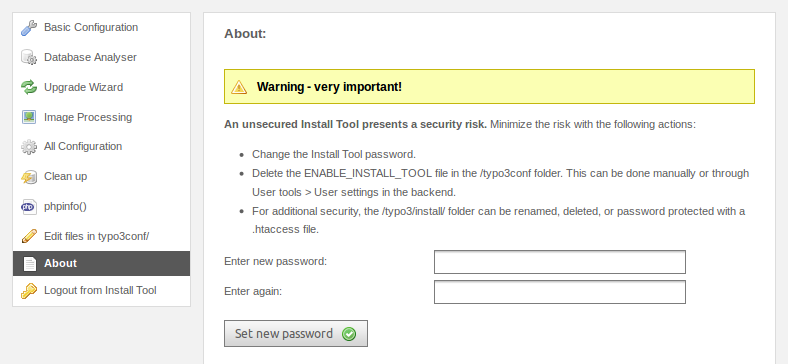
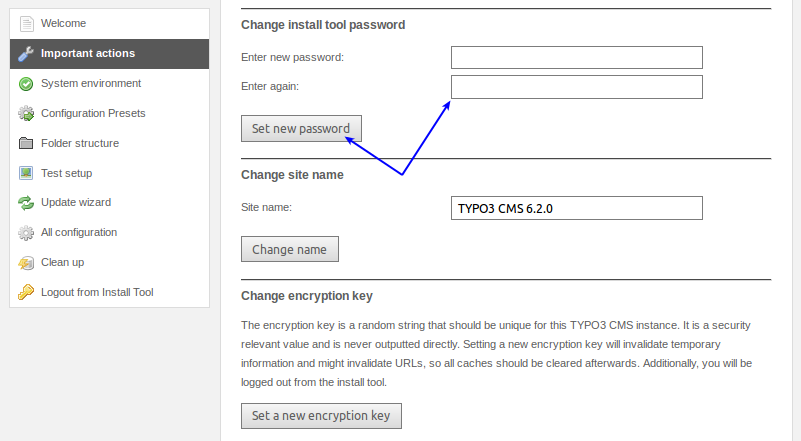
[TASK] Salted passwords for BE user and Install Tool
This patch updates the documentation and mentions the use of salted MD5
hashes as the Install Tool password since TYPO3 CMS 6.2 and where to find
it (file LocalConfiguration.php). This applies to chapter "Guidelines for
TYPO3 Integrators -> Install Tool".

It also replaces the related screenshot, which shows the new Install Tool
of TYPO3 CMS 6.2.x now.

Resolves: #53026

diff --git a/Documentation/GuidelinesIntegrators/InstallTool/Index.rst b/Documentation/GuidelinesIntegrators/InstallTool/Index.rst
@@ -43,23 +43,39 @@ older than 60 minutes (expiry time). Both features can be deactivated
 if the content of this file is "KEEP\_FILE", which is understandably
 not recommended.
 
-The password for accessing the Install Tool is stored as a MD5 hash in
-the global configuration file "typo3conf/LocalConfiguration.php"::
+The password for accessing the Install Tool is stored as a salted MD5
+hash in the global configuration file "typo3conf/LocalConfiguration.php"::
+
+   'BE' => 'installToolPassword' = '$P$CnawBtpk.D22VwoB2RsN0jCocLuQFp.'
+
+In TYPO3 versions before 6.2, this value is a standard (unsalted) MD5
+hash::
 
    'BE' => 'installToolPassword' = 'bacb98acf97e0b6112b1d1b650b84971'
 
-Respectively in the file "typo3conf/localconf.php" in TYPO3 versions
-prior 6.0::
+During an update from TYPO3 version 6.0 or 6.1 to 6.2, the standard
+MD5 hash is automatically converted into a salted hash.
+
+In TYPO3 versions prior 6.0, the MD5 hash of the Install Tool password
+is stored in the file "typo3conf/localconf.php" ::
 
    $TYPO3_CONF_VARS['BE']['installToolPassword'] = "bacb98acf97e0b6112b1d1b650b84971";
 
-The first thing you should do after taking over a new TYPO3 system
-from a system administrator, is to change this password from the
-default value ("joh316") to a new and secure one. Log-in to the
-Install Tool and change it there.
+Since TYPO3 version 6.2, the Install Tool password is set during the
+installation process. This means, in the case that a system administrator
+hands over the TYPO3 instance to you, he/she should also provide you
+with the appropriate password.
+
+In older versions of TYPO3, the default password "joh316" is used as the
+Install Tool password. The first thing you should do, after taking over
+a new TYPO3 system from a system administrator, is to change the password
+to a new and secure one. Log-in to the Install Tool and change it there.
 
 .. figure:: ../../Images/change-install-tool-password-001.png
    :alt: Screen to change the Install Tool password
+
+The option to change the password of the Install Tool in TYPO3 versions
+before 6.2 is located under the menu item "About".
 
 For additional security, the folder "typo3/install" can be renamed,
 deleted, or password protected on a server level (e.g. by a web
